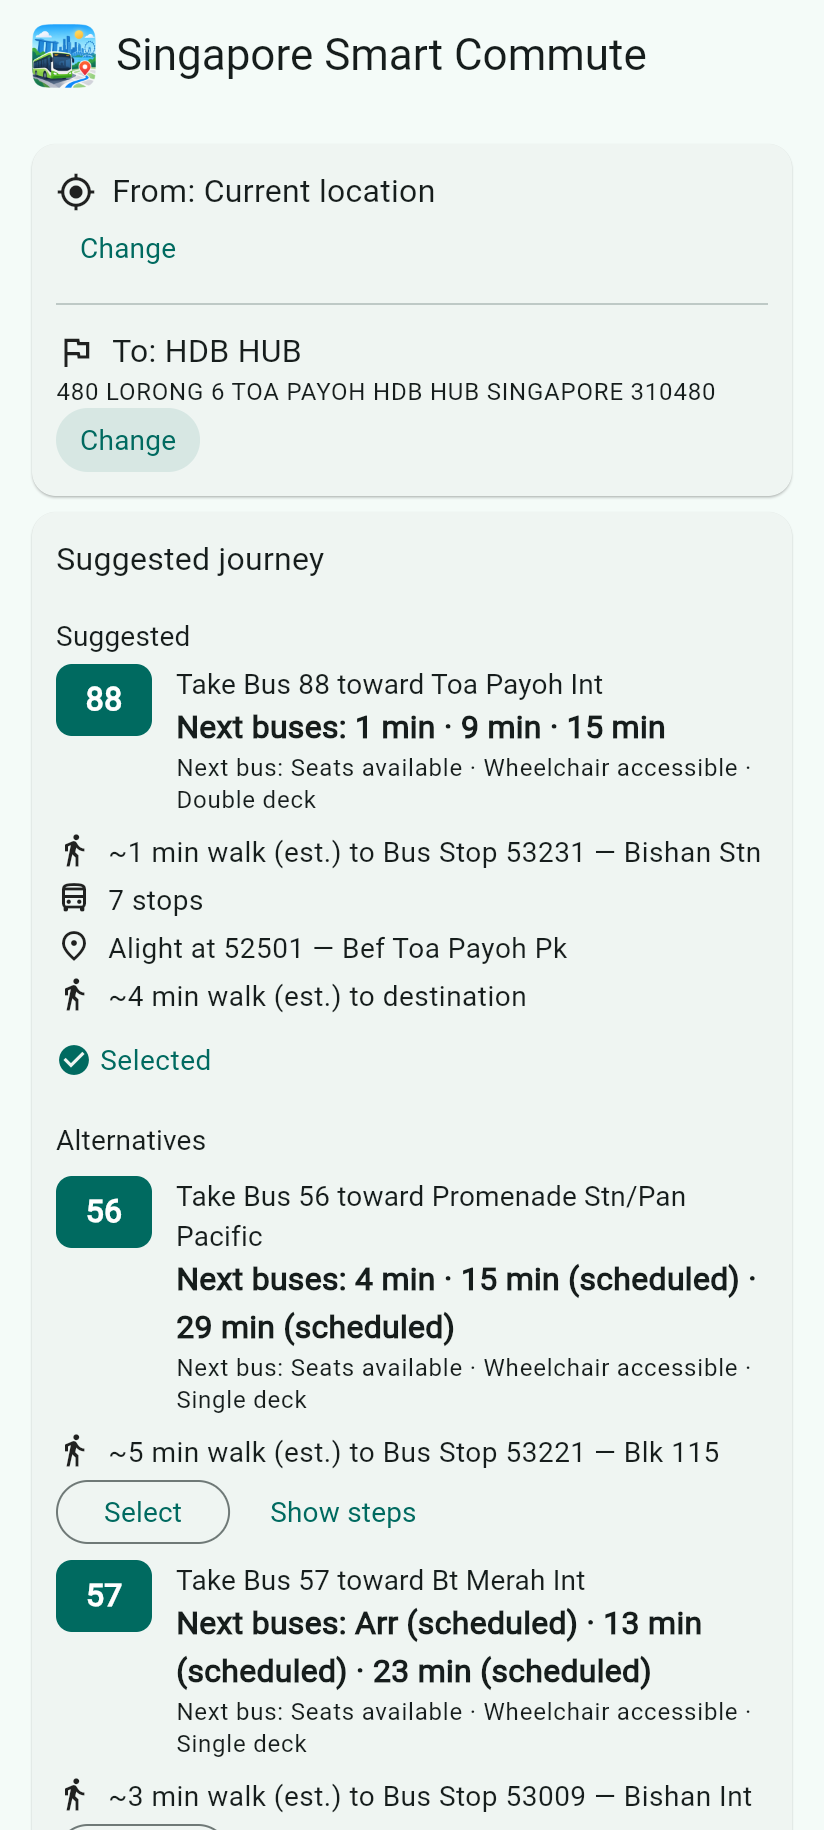
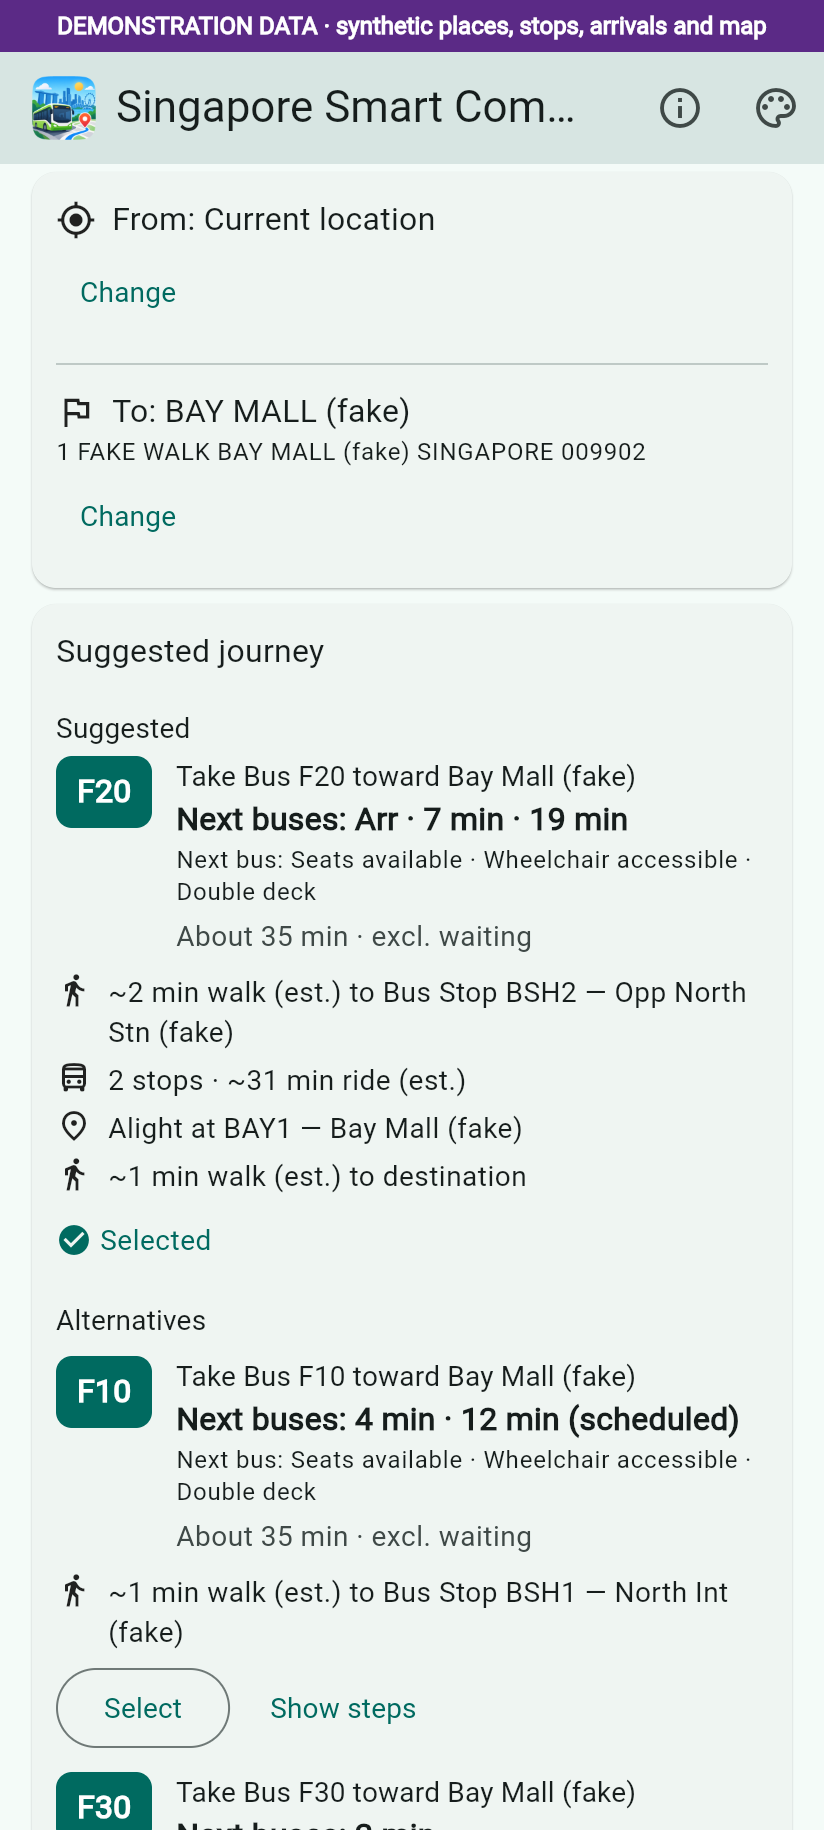
docs: README screenshots over synthetic data (C-4)
Replace the three README screenshots (live OneMap tiles, LTA stop names,
ArriveLah times) with screenshots of the app over the test fakes and
synthetic map tiles, each labelled as demonstration data. The generator
lives in integration_test/demo/ and runs with flutter drive; lib/ is
unchanged.

diff --git a/integration_test/demo/readme_screenshots.dart b/integration_test/demo/readme_screenshots.dart
@@ -1,0 +1,278 @@
+// Dev-only generator for the README screenshots (owner decision C-4,
+// 2026-11-08). Not a test: its name does not end in _test.dart, so
+// `flutter test integration_test` never runs it. On Web, with chromedriver on
+// port 4444:
+//
+//   flutter drive --driver=test_driver/screenshot_driver.dart \
+//     --target=integration_test/demo/readme_screenshots.dart \
+//     -d web-server --browser-name=chrome --profile \
+//     --browser-dimension=412x915@2
+//
+// The PNGs land in build/readme_screenshots/; copy them to docs/images/.
+//
+// The real app (unchanged `lib/`) over the integration tests' fakes: synthetic
+// places, stops, services, arrivals and route line (integration_test/fakes/),
+// with the origin side's names made synthetic too, and map tiles drawn here
+// (an invented street grid) instead of OneMap's. No network request is made
+// for data, tiles or the OneMap logo. A strip at the top labels every
+// screenshot as demonstration data.
+import 'dart:convert';
+import 'dart:math' as math;
+import 'dart:ui' as ui;
+
+import 'package:flutter/foundation.dart';
+import 'package:flutter/material.dart';
+import 'package:flutter_map/flutter_map.dart';
+import 'package:flutter_test/flutter_test.dart';
+import 'package:integration_test/integration_test.dart';
+import 'package:sg_smart_commute/core/config/app_config.dart';
+import 'package:sg_smart_commute/core/geo/geo.dart';
+import 'package:sg_smart_commute/core/location/location_service.dart';
+import 'package:sg_smart_commute/features/journey/data/mrt_asset.dart';
+import 'package:sg_smart_commute/features/journey/data/mrt_asset_repository.dart';
+import 'package:sg_smart_commute/features/journey/domain/bus_network.dart';
+import 'package:sg_smart_commute/features/journey/domain/mrt.dart';
+
+import '../fakes/fake_bus_network.dart';
+import '../fakes/fake_environment_repository.dart';
+import '../fakes/fake_location_service.dart';
+import '../fakes/test_app.dart';
+import '../support.dart';
+
+/// The shared fakes keep real-sounding names on the origin side (the fake GPS
+/// fix is at Bishan); the screenshots use synthetic ones.
+const _renamed = {
+  'Bishan Int (fake)': 'North Int (fake)',
+  'Opp Bishan Stn (fake)': 'Opp North Stn (fake)',
+  'BISHAN MRT STATION': 'FAKE NORTH MRT STATION',
+};
+
+BusNetwork _demoNetwork() {
+  final n = fakeBusNetwork();
+  return BusNetwork(
+    stops: n.stops.map(
+      (code, s) => MapEntry(
+        code,
+        BusStop(
+          code: s.code,
+          position: s.position,
+          name: _renamed[s.name] ?? s.name,
+          road: s.road,
+        ),
+      ),
+    ),
+    services: n.services,
+  );
+}
+
+MrtAssetRepository _demoMrt() => MrtAssetRepository(
+  load: () async => jsonEncode({
+    'stations': encodeMrtStations([
+      for (final s in fakeMrtStations)
+        MrtStation(name: _renamed[s.name] ?? s.name, exits: s.exits),
+    ]),
+  }),
+);
+
+void main() {
+  initIntegrationTest();
+
+  testWidgets('README screenshots over synthetic data', (tester) async {
+    final binding = IntegrationTestWidgetsFlutterBinding.instance;
+    binding.framePolicy = LiveTestWidgetsFlutterBindingFramePolicy.fullyLive;
+    await tester.pumpWidget(
+      _DemoLabel(
+        child: buildTestApp(
+          location: FakeLocationService(
+            access: LocationAccess.granted,
+            position: const LatLng(1.3508, 103.8485),
+          ),
+          environment: FakeEnvironmentRepository(),
+          busNetwork: FakeBusNetworkRepository(network: _demoNetwork()),
+          mrt: _demoMrt(),
+          mapTiles: _DemoTileProvider.new,
+        ),
+      ),
+    );
+    await pumpUntilFound(tester, find.text('From: Current location'));
+    await searchAndPick(
+      tester,
+      field: const Key('destination-field'),
+      query: 'Bay Mall',
+      result: 'BAY MALL (fake)',
+    );
+    await pumpUntilFound(tester, find.byKey(const Key('journey-suggested')));
+    await pumpUntilFound(tester, find.textContaining('min'));
+
+    // 1. The route card at the top, then the journey card.
+    await _scrollToTop(tester, find.text('From: Current location'));
+    await _settle(tester);
+    await binding.takeScreenshot('app-light');
+
+    // 2. and 3. The map, fitted to the journey, light then dark.
+    await scrollToAndTap(tester, find.byKey(const Key('show-map')));
+    await pumpUntilFound(tester, find.byKey(const Key('map-ride-line')));
+    await _scrollToBottom(tester, find.byKey(const Key('hide-map')));
+    await _settle(tester);
+    await binding.takeScreenshot('journey-map-light');
+
+    tester.platformDispatcher.platformBrightnessTestValue = Brightness.dark;
+    await scrollToAndTap(tester, find.byKey(const Key('hide-map')));
+    await scrollToAndTap(tester, find.byKey(const Key('show-map')));
+    await pumpUntilFound(tester, find.byKey(const Key('map-ride-line')));
+    await _scrollToBottom(tester, find.byKey(const Key('hide-map')));
+    await _settle(tester);
+    await binding.takeScreenshot('journey-map-dark');
+    tester.platformDispatcher.clearPlatformBrightnessTestValue();
+  });
+}
+
+/// Scrolls the home list so [target]'s top sits [above] px below the app bar.
+Future<void> _scrollToTop(
+  WidgetTester tester,
+  Finder target, {
+  double above = 16,
+}) async {
+  await tester.ensureVisible(target);
+  await tester.pump();
+  final appBarBottom = tester.getBottomLeft(find.byType(AppBar)).dy;
+  final dy = tester.getTopLeft(target).dy - appBarBottom - above;
+  await tester.drag(find.byType(Scrollable).first, Offset(0, -dy));
+  await tester.pump(const Duration(milliseconds: 300));
+}
+
+/// Scrolls so the card holding [inCard] ends 16 px above the window's bottom:
+/// the journey card shows above the map, and nothing below it.
+Future<void> _scrollToBottom(WidgetTester tester, Finder inCard) async {
+  final card = find.ancestor(of: inCard, matching: find.byType(Card)).first;
+  await tester.ensureVisible(card);
+  await tester.pump();
+  final bottom = tester.view.physicalSize.height / tester.view.devicePixelRatio;
+  final dy = tester.getBottomLeft(card).dy - (bottom - 16);
+  await tester.drag(find.byType(Scrollable).first, Offset(0, -dy));
+  await tester.pump(const Duration(milliseconds: 300));
+}
+
+/// Live frames for long enough to decode the tiles and finish any animation.
+Future<void> _settle(WidgetTester tester) async {
+  for (var i = 0; i < 30; i++) {
+    await tester.pump(const Duration(milliseconds: 100));
+  }
+}
+
+/// The "demonstration data" strip above the app.
+class _DemoLabel extends StatelessWidget {
+  const _DemoLabel({required this.child});
+
+  final Widget child;
+
+  @override
+  Widget build(BuildContext context) => Directionality(
+    textDirection: TextDirection.ltr,
+    child: Column(
+      children: [
+        Container(
+          width: double.infinity,
+          color: const Color(0xFF5B2A86),
+          padding: const EdgeInsets.symmetric(vertical: 6, horizontal: 12),
+          child: const Text(
+            'DEMONSTRATION DATA · synthetic places, stops, arrivals and map',
+            textAlign: TextAlign.center,
+            style: TextStyle(
+              color: Color(0xFFFFFFFF),
+              fontSize: 12,
+              fontWeight: FontWeight.w600,
+            ),
+          ),
+        ),
+        Expanded(child: child),
+      ],
+    ),
+  );
+}
+
+/// Map tiles drawn on the device: an invented street grid with parks and
+/// water, light for the Default style and dark for Night. Not a map of
+/// anywhere; nothing is fetched.
+class _DemoTileProvider extends TileProvider {
+  @override
+  ImageProvider getImage(TileCoordinates c, TileLayer options) => _DemoTile(
+    c.x,
+    c.y,
+    c.z,
+    options.urlTemplate == BasemapEndpoints.nightTiles,
+  );
+}
+
+@immutable
+class _DemoTile extends ImageProvider<_DemoTile> {
+  const _DemoTile(this.x, this.y, this.z, this.dark);
+
+  final int x, y, z;
+  final bool dark;
+
+  @override
+  Future<_DemoTile> obtainKey(ImageConfiguration configuration) =>
+      SynchronousFuture(this);
+
+  @override
+  ImageStreamCompleter loadImage(_DemoTile key, ImageDecoderCallback decode) =>
+      OneFrameImageStreamCompleter(_draw());
+
+  Future<ImageInfo> _draw() async {
+    const size = 256.0;
+    final land = Color(dark ? 0xFF1E2328 : 0xFFF2EFE9);
+    final park = Color(dark ? 0xFF233629 : 0xFFCFE7C8);
+    final water = Color(dark ? 0xFF16283A : 0xFFAAD3DF);
+    final minor = Color(dark ? 0xFF2F353D : 0xFFFFFFFF);
+    final major = Color(dark ? 0xFF46505B : 0xFFFAD98A);
+    final recorder = ui.PictureRecorder();
+    final canvas = Canvas(recorder)..drawColor(land, BlendMode.src);
+
+    // Blocks a fixed number of world pixels apart at z13, scaled to this zoom,
+    // so streets line up across tiles and zoom levels.
+    final block = 72 * math.pow(2, z - 13).toDouble();
+    final ox = x * size, oy = y * size;
+    final first = (ox / block).floor(), firstY = (oy / block).floor();
+    for (var i = first; i * block < ox + size; i++) {
+      for (var j = firstY; j * block < oy + size; j++) {
+        final h = (i * 73856093) ^ (j * 19349663);
+        final fill = h % 29 == 0 ? water : (h % 11 == 0 ? park : null);
+        if (fill != null) {
+          canvas.drawRect(
+            Rect.fromLTWH(i * block - ox, j * block - oy, block, block),
+            Paint()..color = fill,
+          );
+        }
+      }
+    }
+    final w = (block / 12).clamp(1.0, 14.0);
+    for (var i = first; i * block < ox + size + block; i++) {
+      final isMajor = i % 4 == 0;
+      canvas.drawRect(
+        Rect.fromLTWH(i * block - ox - w / 2, 0, isMajor ? w * 1.8 : w, size),
+        Paint()..color = isMajor ? major : minor,
+      );
+    }
+    for (var j = firstY; j * block < oy + size + block; j++) {
+      final isMajor = j % 4 == 0;
+      canvas.drawRect(
+        Rect.fromLTWH(0, j * block - oy - w / 2, size, isMajor ? w * 1.8 : w),
+        Paint()..color = isMajor ? major : minor,
+      );
+    }
+    final image = await recorder.endRecording().toImage(256, 256);
+    return ImageInfo(image: image);
+  }
+
+  @override
+  bool operator ==(Object other) =>
+      other is _DemoTile &&
+      other.x == x &&
+      other.y == y &&
+      other.z == z &&
+      other.dark == dark;
+
+  @override
+  int get hashCode => Object.hash(x, y, z, dark);
+}

diff --git a/test_driver/screenshot_driver.dart b/test_driver/screenshot_driver.dart
@@ -1,0 +1,15 @@
+// Driver for integration_test/demo/readme_screenshots.dart: like
+// integration_test.dart, but each `takeScreenshot` is saved as
+// build/readme_screenshots/<name>.png.
+import 'dart:io';
+
+import 'package:integration_test/integration_test_driver_extended.dart';
+
+Future<void> main() => integrationDriver(
+  onScreenshot: (name, bytes, [args]) async {
+    final file = File('build/readme_screenshots/$name.png');
+    await file.create(recursive: true);
+    await file.writeAsBytes(bytes);
+    return true;
+  },
+);

diff --git a/docs/testing.md b/docs/testing.md
@@ -679,3 +679,4 @@ colours. A new master needs its safe zones measured again (adaptive inset, maska
 | 2026-11-07 | C-6: source-specific data credits in the home footer (owner decision 2026-11-07; branch `feat/source-specific-attribution` from `1ba79bd`). `lib/app/home_screen.dart`: the single "Data: …" line replaced by one line per source; the NEA and MRT sources get their own Singapore Open Data Licence notice and link (new `neaLicenceNotice`, `mrtLicenceNotice` in `app_config.dart`; the unused `mrtAttribution` removed), the A-5b arrivals notice is unchanged, OneMap and busrouter keep their credits with no licence. Rule: the "Source-specific data credits (C-6)" row of `docs/assumptions.md`; README credits updated. No OneMap notice or new OneMap link (A-5d-2 deferred) | `flutter test test/app/data_attribution_test.dart` (one new test: each notice's text, each link's semantics and target, the OneMap and busrouter credits outside any notice); the full `flutter test` (15:46 UTC) failed one test, `place_search_widget_test.dart` "location unavailable → search by postal code → select origin", because the footer now shows the exact OneMap credit too; that check was scoped to the search field. Then `dart format --set-exit-if-changed .`, `flutter analyze`, `flutter test` (15:48 UTC) | **969 passed** (968 + 1 new). Format 172 files, 0 changed; analyze no issues. **Not run:** `flutter build web`, `flutter build apk --debug`, the Android and Web integration tests (no chromedriver or device; see the PR #104 row), and a visual check of the footer at phone width and 2× text: unverified by eye |
 | 2026-11-07 | PR #106 merged; then `main` merged into `feat/source-specific-attribution` (PR #107) | #106: CI run 42425768362 on `2507830`; `gh pr merge 106 --merge --match-head-commit …`; `main` CI on `f02ac08` run 42426009879; then the branch deleted. #107: `git merge origin/main`, the run-log conflict resolved by keeping every row (`main`'s first); `dart format --set-exit-if-changed .`, `flutter analyze`, `flutter test` (23:40 UTC) | #106 merged as `f02ac08`. `main` after #106: **968** + **32** passed; branch deleted after that. #107 merge: format 172 files, 0 changed; analyze no issues; **969 passed** |
 | 2026-11-07 | PR #107 visual review on Web before merge (owner condition): the footer at 360 px wide, text scale 1× and 2×, light and dark, keyboard and screen-reader semantics. `flutter build web` of the merged branch served by a small Node static server on 127.0.0.1; a separate Chrome 157 session driven by chromedriver 157.0.8103.39 (temporary profile; CDP `Emulation.setDeviceMetricsOverride` 360 px, `Emulation.setEmulatedMedia` `prefers-color-scheme`; 2× by the root font size 32 px, which Flutter Web reads as its text scale); Tab through the page and Enter on the third licence link; the semantics DOM read after enabling semantics. Live data.gov.sg readings loaded as in normal use; the map stayed closed (no tile); the screenshots stay outside the repo | Scripted review (23:42–23:52 UTC); after the fix: `dart format --set-exit-if-changed .`, `flutter analyze`, `flutter test`, `flutter build web` (23:49–23:50 UTC); the new test run against the branch without the fix | **Visual: no defect.** All four combinations wrap cleanly with no clipping or overflow; the links stay legible in both themes; at 2× each link wraps to two lines. Keyboard: the three links follow "Refresh conditions" in reading order, each shows the 2 px focus ring, and Enter on one opened `https://data.gov.sg/open-data-licence` in a new tab ("data.gov.sg"). OneMap and busrouter lines have no link (as decided). **Screen-reader defect found and fixed:** Flutter merged all five credit lines into one group label, followed by three links all named "Singapore Open Data Licence version 1.0", so no link was read with its own source. Each notice is now its own semantics container and its link a child container: on Web, three groups each labelled with one notice and holding one `<a>` with the licence name. New test `a screen reader hears each notice, then its own link` (`test/app/data_attribution_test.dart`): fails without the fix, passes with it. Format 172 files, 0 changed; analyze no issues; **970 passed**; build web OK. **Not run:** an actual screen reader (NVDA, TalkBack); Android visual check (no `lib/` difference by platform) |
+| 2026-11-08 | C-4: the three README screenshots replaced by demonstration screenshots over synthetic data (owner approval 2026-11-08; branch `docs/synthetic-readme-screenshots` from `9f59e58`). New generator `integration_test/demo/readme_screenshots.dart` (not a `_test.dart` file, so `flutter test integration_test` skips it) and driver `test_driver/screenshot_driver.dart`: the real app through `buildTestApp`, origin-side names made synthetic in the generator, synthetic tiles drawn on the device, a "DEMONSTRATION DATA" strip; no `lib/` or shared-fake change. README "Screenshots" and `docs/captured-data-inventory.md` §9 updated | `flutter drive --driver=test_driver/screenshot_driver.dart --target=integration_test/demo/readme_screenshots.dart -d web-server --browser-name=chrome --profile --browser-dimension=412x915@2` with chromedriver 157.0.8103.39 (00:02 and 00:05 UTC, the second after making the tile blocks larger and framing the map shots so the Conditions card, with its NEA area names, is out of view); each image viewed; `dart format --set-exit-if-changed .`, `flutter analyze`, `flutter test` | Generator run passed both times; three PNGs, 824 × 1830 each (as before), 221,438 / 212,446 / 207,977 B. Format 174 files, 0 changed; analyze no issues; **970 passed** (00:05 UTC). Viewed: no live data; names "BAY MALL (fake)", "North Int (fake)", "FAKE NORTH MRT STATION", services F10 / F20 / F30; tiles synthetic. The map's OneMap attribution line and the arrivals credit still show, as in the app (README explains). **Not run:** an Android run of the generator (Web only) |

diff --git a/docs/captured-data-inventory.md b/docs/captured-data-inventory.md
@@ -118,7 +118,7 @@ PRs #95 (A-5c) and #94 (A-5b):
 | `test/**` outside `test/fixtures/` | Hand-written positions and codes (e.g. `'00123'`, `F` codes, rounded MRT exits in `mrt_test.dart`); Google's documented example polyline in `polyline_codec_test.dart` | Project; identifiers [A] | **Keep** |
 | `docs/data-sources.md`, `docs/testing.md`, `docs/assumptions.md`, `docs/api-feasibility.md`, `docs/architecture.md` | Response schemas (field names), short error messages, aggregate observations (e.g. "141 buses sampled"), a few stop codes and service numbers | Derived; short functional text [A] | **Keep** |
 | `docs/e5-gate2-implementation-plan.md`, `docs/testing.md` E5 rows | A few benchmark journeys (service numbers, stop codes, stop counts) | Derived [A] | **Keep** (with C-5) |
-| `docs/images/*.png` (3 files, 1,148,408 B, `34a1309`, 2026-10-05; README "Screenshots") | App screenshots with live OneMap tiles, busrouter stop names, ArriveLah arrival times and NEA readings | OneMap, LTA-web, ArriveLah, SODL | **Owner decision C-4** |
+| `docs/images/*.png` (3 files, 1,148,408 B, `34a1309`, 2026-10-05; README "Screenshots") | Replaced (C-4, §9): demonstration screenshots over synthetic data and synthetic tiles | Project-made | **Done** (C-4) |
 
 ## 4. Actions in the redaction PR [P]
 
@@ -194,3 +194,18 @@ established and not needed for active tests":
 
 So all eight were removed from the tree. `docs/map-feasibility.md` now describes what each showed, in original text.
 They remain in Git history (`6dc0fd3`; C-7, no rewrite).
+
+## 9. C-4 done (owner approval 2026-11-08)
+
+The three `docs/images/*.png` (live OneMap tiles, busrouter stop names, ArriveLah times, NEA readings) were replaced by
+screenshots of the app over synthetic data, made by `integration_test/demo/readme_screenshots.dart` (a generator run
+with `flutter drive`, not a test; no `lib/` change):
+- places, stops, services, arrival times and the ride line are the integration tests' fakes; the generator renames the
+  origin side's stops and MRT station (the shared fakes still say Bishan) to "North … (fake)";
+- the map tiles are an invented street grid drawn by the generator; no OneMap tile or logo is fetched or shown (the
+  logo is the fakes' transparent image);
+- the Conditions card, whose area names come from NEA data, is kept out of frame;
+- each image has a "DEMONSTRATION DATA" strip, and the README says the map's attribution line and the arrivals credit
+  are the app's standard credits and describe no real data there.
+
+Same names, sizes 824 × 1830 as before. The old images remain in Git history (`34a1309`; C-7, no rewrite).

diff --git a/README.md b/README.md
@@ -27,13 +27,15 @@ looks as before.
 
 ## Screenshots
 
-The release Web build at phone width with live data: a trip from Bishan to HDB Hub, Toa Payoh (2026-10-05,
-06:20–06:24 SGT). The middle map is zoomed in by hand at the destination end, where the walking estimate and the MRT
-marker show.
+**Demonstration data.** A profile Web build of the app at phone width (412 px, 2×), run over synthetic data
+(`integration_test/demo/readme_screenshots.dart`): the places, bus stops, services, arrival times and route line are
+the test fakes', and the map tiles are an invented street grid drawn by the generator, not OneMap's. No live data is
+shown. The map's attribution line and the arrivals credit are the app's standard credits; here they describe no
+real data. A strip at the top of each image says so.
 
-| Journey with live arrivals | Map at the destination end | Map, dark theme |
+| Journey with arrivals | Map with the selected bus | Map, dark theme |
 |---|---|---|
-| ![The From/To card, then the journey card: the suggested Bus 88 with live arrivals and the Selected mark, alternative 56 with Select and Show steps, and 57 below](docs/images/app-light.png) | ![Map zoomed in at Toa Payoh: the end of the Bus 88 route, the dashed straight-line walk to HDB Hub, the Toa Payoh MRT marker, the legend and the OneMap attribution](docs/images/journey-map-light.png) | ![Dark theme: the map on OneMap Night tiles with the whole Bus 88 route from Bishan to Toa Payoh](docs/images/journey-map-dark.png) |
+| ![Demonstration data: the From/To card to BAY MALL (fake), then the journey card with the suggested Bus F20, its arrivals and the Selected mark, and alternative F10 with Select and Show steps](docs/images/app-light.png) | ![Demonstration data: the journey card's MRT alternative, then the map on synthetic tiles with the Bus F20 ride line, its legend and attribution](docs/images/journey-map-light.png) | ![Demonstration data: the same map in the dark theme on dark synthetic tiles](docs/images/journey-map-dark.png) |
 
 ## No credentials required
 
